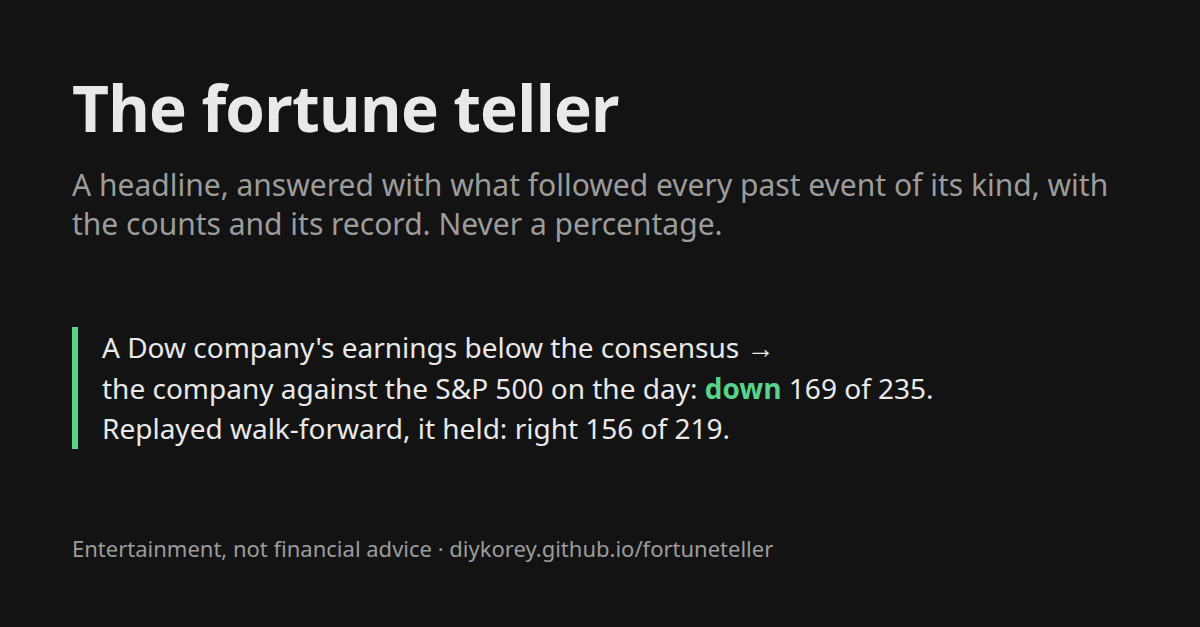
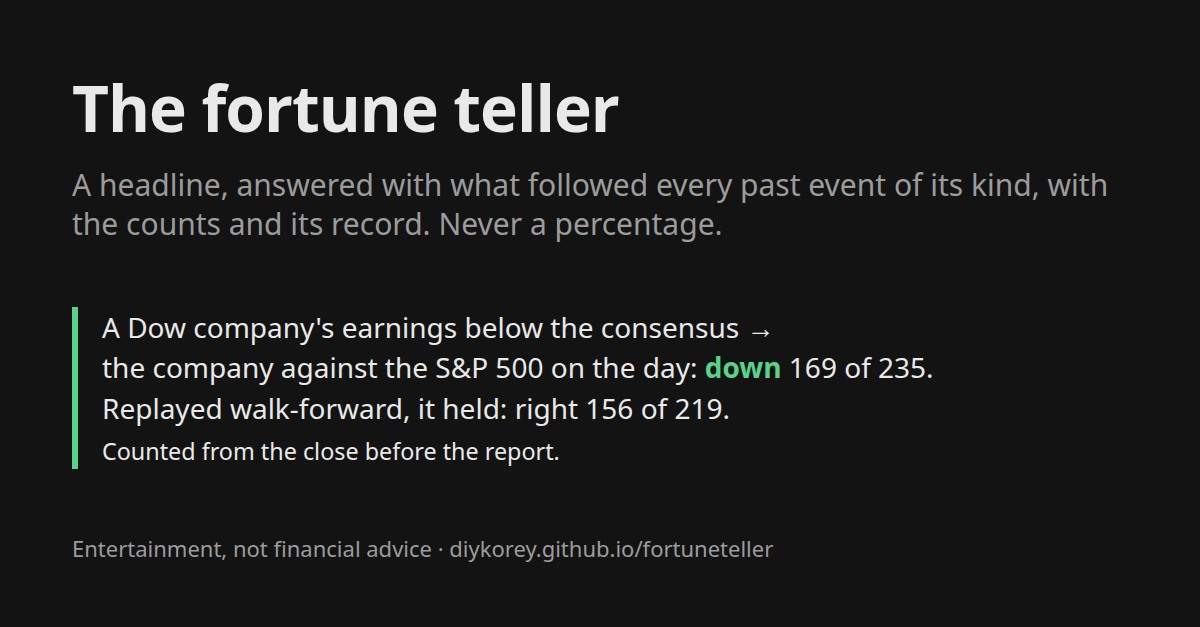
Step 56, step 3 draft: the usual way, counts, the guess card, reactions marked, the no-money line

Changed region(s): [[0.0617, 0.4848, 0.7708, 0.7576]]

diff --git a/src/fortuneteller/predicts.html b/src/fortuneteller/predicts.html
@@ -23,6 +23,8 @@
   --accent: #7c3aed;
   --accent-soft: #f5f3ff;
   --guess: #db2777;
+  --guess-soft: #fdf2f8;
+  --hunch: #f3f4f6;
   --chip: #f3f4f6;
   --up: #15803d;
   --up-soft: #dcfce7;
@@ -41,6 +43,8 @@
     --accent: #b79cff;
     --accent-soft: #272040;
     --guess: #f472b6;
+    --guess-soft: #2a1b25;
+    --hunch: #2a2d36;
     --chip: #232733;
     --up: #4ade80;
     --up-soft: rgba(74, 222, 128, 0.14);
@@ -51,7 +55,8 @@
 }
 :root[data-theme="dark"] {
   --bg: #111318; --card: #1a1d24; --line: #2d313b; --ink: #f9fafb; --text: #d1d5db;
-  --muted: #b0b6c1; --accent: #b79cff; --accent-soft: #272040; --guess: #f472b6; --chip: #232733;
+  --muted: #b0b6c1; --accent: #b79cff; --accent-soft: #272040; --guess: #f472b6; --guess-soft: #2a1b25; --hunch: #2a2d36;
+  --chip: #232733;
   --up: #4ade80; --up-soft: rgba(74, 222, 128, 0.14); --down: #fb923c;
   --down-soft: rgba(251, 146, 60, 0.14); --shadow: none;
 }
@@ -85,6 +90,8 @@ li.card > :not(.icon) { grid-column: 2; min-width: 0; }
 }
 .kind { font-size: 13px; font-weight: 800; text-transform: uppercase; letter-spacing: 0.06em; color: var(--accent); }
 li.guess .kind { color: var(--guess); }
+li.card.guess { background: var(--guess-soft); border-style: dashed; }
+li.guess .badge { background: var(--hunch); color: var(--text); }
 li.withdrawn { opacity: 0.75; }
 .withdrawn-note { font-style: italic; color: var(--muted); }
 .top { display: flex; justify-content: space-between; align-items: center; gap: 6px 10px; flex-wrap: wrap; }
@@ -117,13 +124,13 @@ footer { margin-top: 32px; font-size: 15px; color: var(--muted); display: grid; 
 <body>
 <main>
   <h1>Fortuneteller <span>predicts:</span></h1>
-  <p class="sub">Where markets go next, from history and today's news. Every forecast is checked when its time is up.</p>
+  <p class="sub">What markets usually do, and our guesses from today's news. Every one is checked when its time is up.</p>
   <details class="how">
     <summary>How it works</summary>
-    <p><b>Tested on the past:</b> where a market went the same way most of the time over a stretch
-    of time, and that kept coming true when tested on history, the fortune teller says it will
-    again.</p>
-    <p><b>Our guess:</b> a hunch from today's news, with no record behind it yet.</p>
+    <p><b>The usual way:</b> the way a market has gone most of the time over a stretch this long,
+    in its whole history. Markets like stocks and homes rise more often than they fall, so this is
+    what they normally do, whatever the news: not a forecast from news.</p>
+    <p><b>💭 Our guess:</b> a hunch from today's news, with no record behind it yet.</p>
     <p>Each says which way, not by how much. Every one is kept and checked when its time is up,
     and the two kinds are scored apart. For fun, not financial advice.</p>
   </details>
@@ -132,7 +139,7 @@ footer { margin-top: 32px; font-size: 15px; color: var(--muted); display: grid; 
   <footer>
     <span id="written"></span>
     <span><a href="stats/">Every guess and how it turned out</a> · <a href="../scoreboard/">Every number behind the tested forecasts</a></span>
-    <span>For fun, not financial advice.</span>
+    <span>For fun, not financial advice. The maker has no money in any market shown.</span>
     <span>Made by <a href="https://www.linkedin.com/in/andriyandrunevchyn/">Andriy Andrunevchyn</a>, CTO and co-founder of <a href="https://soft-innovation.ch/">SSI</a></span>
   </footer>
 </main>
@@ -228,28 +235,28 @@ footer { margin-top: 32px; font-size: 15px; color: var(--muted); display: grid; 
   shown.forEach((p) => {
     const [icon, name] = MARKETS[p.market] || ['🔮', p.event];
     const monthly = p.market === 'US home prices';
-    const card = el('li', null, 'card ' + p.direction + (p.guess ? ' guess' : ' stated'));
+    const card = el('li', null, 'card ' + (p.guess ? 'guess' : p.direction + ' stated'));
     card.appendChild(el('div', icon, 'icon'));
     card.lastChild.setAttribute('aria-hidden', 'true');
-    card.appendChild(el('div', p.guess ? 'Our guess · made ' + short(p.made) : 'Tested on the past', 'kind'));
+    card.appendChild(el('div', p.guess ? '💭 Our guess · made ' + short(p.made) : 'The usual way', 'kind'));
     const top = el('div', null, 'top');
     top.appendChild(el('h2', name, 'market'));
     if (p.until) {
-      top.appendChild(el('span', (p.direction === 'up' ? '▲ Higher' : '▼ Lower') + (monthly ? ' in ' : ' on ') + short(p.until, monthly), 'badge'));
+      const way = p.direction === 'up' ? (p.guess ? '▲ Higher' : '▲ Usually higher') : (p.guess ? '▼ Lower' : '▼ Usually lower');
+      top.appendChild(el('span', way + (monthly ? ' in ' : ' on ') + short(p.until, monthly), 'badge'));
     }
     card.appendChild(top);
     if (HINTS[p.market]) card.appendChild(el('p', HINTS[p.market], 'hint'));
-    card.appendChild(el('p', p.guess ? p.event : 'Will be ' + p.outcome + '.', 'say'));
+    card.appendChild(el('p', p.guess ? p.event : 'Usually ' + p.outcome + '.', 'say'));
     const meta = el('div', null, 'meta');
     if (p.until) {
       const when = el('span', '⏳ ');
       when.appendChild(el('b', monthly ? 'checked when the ' + short(p.until, true) + ' figure comes out' : left(p.until)));
       meta.appendChild(when);
     }
-    const tenths = p.called ? Math.round(10 * p.right / p.called) : null;
     meta.appendChild(el('span', p.guess ? 'A guess with no record yet: scored when its time is up'
-      : tenths !== null ? '📊 In the past it came true about ' + tenths + ' times in 10 (' + p.right.toLocaleString('en-US')
-        + ' of ' + p.called.toLocaleString('en-US') + ' ' + p.unit + ')' : '📊 ' + p.record));
+      : p.called ? '📊 Went this way in ' + p.right.toLocaleString('en-US') + ' of '
+        + p.called.toLocaleString('en-US') + ' ' + p.unit : '📊 ' + p.record));
     card.appendChild(meta);
     if (p.withdrawn) {
       card.classList.add('withdrawn');
@@ -293,9 +300,9 @@ footer { margin-top: 32px; font-size: 15px; color: var(--muted); display: grid; 
     { weekday: 'short', month: 'short', day: 'numeric', timeZone: 'UTC' }) + '. New guesses each weekday evening.';
   const chip = (name, t) => name + ': ' + t.open + ' open · ' + t.came_true + ' right · ' + t.did_not + ' wrong';
   const tally = document.getElementById('tally');
-  if (data.tally && data.kept_since) tally.appendChild(el('li', chip('📊 Tested', data.tally)));
+  if (data.tally && data.kept_since) tally.appendChild(el('li', chip('📊 The usual way, all kept', data.tally)));
   const f = data.front_tally;
-  if (f && f.came_true + f.did_not + f.open) tally.appendChild(el('li', chip('🃏 Shown on this page', f)));
+  if (f && f.came_true + f.did_not + f.open) tally.appendChild(el('li', chip('🃏 Guesses ever shown here', f)));
   const g = data.guess_tally;
   if (g && g.came_true + g.did_not + g.open) {
     const item = el('li');

diff --git a/src/fortuneteller/scoreboard.html b/src/fortuneteller/scoreboard.html
@@ -89,7 +89,8 @@ tool, not financial advice. The numbers are the ones
 <h2 id="answers-that-hold">The answers that hold</h2>
 <p class="muted">Most kinds of event are followed by nothing a count can tell from chance. These
 are the ones that are, and that also held when every past event was answered only from the ones
-before it.</p>
+before it. A move <em>on the day</em> is counted from the close before the news, so much of it
+can come before you read the headline.</p>
 <ul id="holds"></ul>
 
 <h2 id="ask-the-fortune-teller">Ask the fortune teller</h2>
@@ -97,7 +98,8 @@ before it.</p>
 what each market did after every past one, on the day and over the spans after it, beside what it
 did over every span of its history. An answer is given only when the counts are unlikely by chance;
 most read <em>can't say</em>. Each answer was also replayed, every event answered from the ones
-before it; only a replay that held is marked.</p>
+before it; only a replay that held is marked. A move <em>on the day</em> is counted from the close
+before the news, so much of it can come before you read the headline.</p>
 <p><label for="ask-kind">Kind of event </label><select id="ask-kind"></select></p>
 <p class="muted" id="ask-about"></p>
 <div id="ask"></div>
@@ -335,6 +337,9 @@ code</summary>
   });
   holds.forEach((h) => {
     const item = el('li', h.say + ' ');
+    if (h.flow === 'opec' && h.kind === 'oil up') {
+      item.appendChild(el('span', "Oil's own move that day decides this kind of decision, so this mostly repeats it. "));
+    }
     const link = el('a', 'See it');
     link.href = '#ask/' + [h.flow, h.kind].map(encodeURIComponent).join('/');
     item.appendChild(link);

diff --git a/docs/scoreboard/preview.html b/docs/scoreboard/preview.html
@@ -9,6 +9,6 @@ h1{font-size:64px;margin:0;letter-spacing:-1px}
 </style></head><body><div class="c">
 <div><h1>The fortune teller</h1>
 <div class="sub">A headline, answered with what followed every past event of its kind, with the counts and its record. Never a percentage.</div></div>
-<div class="ex">A Dow company's earnings below the consensus →<br>the company against the S&amp;P 500 on the day: <b>down</b> 169 of 235.<br>Replayed walk-forward, it held: right 156 of 219.</div>
+<div class="ex">A Dow company's earnings below the consensus →<br>the company against the S&amp;P 500 on the day: <b>down</b> 169 of 235.<br>Replayed walk-forward, it held: right 156 of 219.<br><small>Counted from the close before the report.</small></div>
 <div class="foot">Entertainment, not financial advice · diykorey.github.io/fortuneteller</div>
 </div></body></html>

diff --git a/tests/test_predicts.py b/tests/test_predicts.py
@@ -56,7 +56,7 @@ def test_the_page_shows_up_to_five_forecasts_without_a_sideways_scroll(
     tmp_path: Path, width: int
 ) -> None:
     # given the page with two stated forecasts (one per area), one of them past its span, and front.csv with two
-    # open guesses worded with a comma and a quote and one past its end date, served over a local
+    # open guesses (one withdrawn) worded with a comma and a quote and one past its end date, served over a local
     # server, without the counter, reporting its widths once the guesses are read
     told = cli.stated({"market_names": {}, "ask": [], "forecasts": _runs()}, date(2026, 11, 20))
     stated = [{k: v for k, v in t.items() if k != "row"} for t in told]
@@ -72,7 +72,8 @@ def test_the_page_shows_up_to_five_forecasts_without_a_sideways_scroll(
         "source": "https://example.com/opec",
     }
     gone = guess | {"last": "2001-01-05", "statement": "Gone by now."}
-    cli._write_rows(tmp_path / "front.csv", cli.FRONT_FIELDS, [guess, guess, gone])
+    taken_back = guess | {"withdrawn": "2098-12-10"}
+    cli._write_rows(tmp_path / "front.csv", cli.FRONT_FIELDS, [guess, taken_back, gone])
     page_data = {"written": "2026-11-20", "stated": stated, "tally": None, "kept_since": None}
     template = (Path(cli.__file__).parent / "predicts.html").read_text()
     template = re.sub(
@@ -124,7 +125,11 @@ def test_the_page_shows_up_to_five_forecasts_without_a_sideways_scroll(
     assert "Long passed" not in shown and "Gone by now" not in shown and "→" not in shown
     assert shown.count('Oil, we think, will be "lower" on Jan 5.') == 2
     assert shown.count("Why: A guess, made\nover two lines.") == 2
-    assert shown.count("Our guess · made") == 2
+    assert shown.count("💭 Our guess · made") == 2
+    assert shown.count('class="card guess') == 2 and "card down guess" not in shown
+    assert shown.count("We took this guess back on Dec 10") == 1
+    assert " in 10" not in shown
+    assert "The maker has no money in any market shown." in dom
     match = re.search(r"<title>(\d+) (\d+) (\d+)</title>", dom)
     assert match is not None
     scroll, inner, cards = map(int, match.groups())

diff --git a/src/fortuneteller/__main__.py b/src/fortuneteller/__main__.py
@@ -970,6 +970,11 @@ def _read_article(args: argparse.Namespace) -> int:
 SCOREBOARD_URL = "https://diykorey.github.io/fortuneteller/scoreboard/"
 UMAMI_SHARE = "7PW46kYjf9EyzI0H"
 DISCLAIMER = "An entertainment tool, not advice."
+# Step 56 (docs/steps/honest-page.md): a cell of the day of the news, wherever a reader meets it.
+DAY_NOTE = (
+    "A move on the day is counted from the close before the news, so much of it can come before"
+    " you read the headline."
+)
 # The releases the morning job calls, as a post names them.
 POST_NAMES = {
     "cpi": "CPI",
@@ -1033,7 +1038,7 @@ def _post_page_lines(page: Mapping[str, object], since: date) -> list[str]:
     holds = page.get("holds") or []
     assert isinstance(holds, list)
     if holds:
-        lines += ["", "An answer that holds: " + str(holds[0]["say"])]
+        lines += ["", "An answer that holds: " + str(holds[0]["say"]), DAY_NOTE]
     ahead = page.get("earnings_ahead") or {}
     assert isinstance(ahead, dict)
     reports = [
@@ -1048,6 +1053,8 @@ def _post_page_lines(page: Mapping[str, object], since: date) -> list[str]:
         lines += [f"{r['name']} ({r['symbol']}), {r['day']}, {r['time']}." for r in largest]
         lines += ["What followed past S&P 500 reports, on the day against the index:"]
         lines += ahead["lines"]
+        if not holds:
+            lines.append(DAY_NOTE)
     return lines
 
 

diff --git a/tests/test_stated_forecasts.py b/tests/test_stated_forecasts.py
@@ -267,10 +267,11 @@ def test_the_page_states_a_forecast_first_with_its_record(tmp_path: Path) -> Non
 
     # then the forecast is stated with its record and the tally, and no if-arrow
     shown = dom[dom.index('<ol id="predictions">') : dom.index("</ol>")]
-    assert "US stock market" in shown and "▲ Higher on" in shown and "Will be higher on" in shown
-    assert "came true about 6 times in 10 (402 of 666 past years)" in shown
+    assert "US stock market" in shown and "▲ Usually higher on" in shown and "Usually higher on" in shown
+    assert "Went this way in 402 of 666 past years" in shown and " in 10" not in shown
+    assert "The usual way" in shown
     assert "→" not in shown
-    assert "Tested: 2 open · 1 right · 0 wrong" in dom
+    assert "The usual way, all kept: 2 open · 1 right · 0 wrong" in dom
 
 
 def test_a_page_written_on_a_saturday_counts_from_friday_s_close() -> None:
